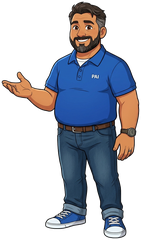
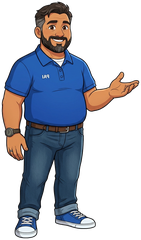
Inverte orientacao inicial de Papai e Vovo para caminharem sempre para frente

diff --git a/aventura_familia.html b/aventura_familia.html
@@ -94,8 +94,8 @@
                 <!-- Henrique (Homem-Aranha) -->
                 <button onclick="selectCharacter('henrique')" class="char-card bg-white/95 hover:bg-yellow-50 border-4 border-red-500 rounded-3xl p-3 sm:p-4 flex flex-col items-center shadow-2xl active:scale-95">
                     <div class="h-28 sm:h-36 w-full flex items-center justify-center relative">
-                        <img src="char_henrique.png" class="h-full object-contain drop-shadow-xl" alt="Henrique">
-                        <img src="avatar_henrique.png" class="absolute -top-1 -right-1 w-8 h-8 rounded-full border-2 border-white shadow-md object-cover bg-white" alt="Foto">
+                        <img src="char_henrique.png?v=2" class="h-full object-contain drop-shadow-xl" alt="Henrique">
+                        <img src="avatar_henrique.png?v=2" class="absolute -top-1 -right-1 w-8 h-8 rounded-full border-2 border-white shadow-md object-cover bg-white" alt="Foto">
                     </div>
                     <span class="text-base sm:text-xl font-black text-red-600 mt-2">Henrique</span>
                     <span class="text-xs font-bold text-gray-600">🕷 Homem-Aranha</span>
@@ -104,7 +104,7 @@
                 <!-- Papai Anderson -->
                 <button onclick="selectCharacter('anderson')" class="char-card bg-white/95 hover:bg-yellow-50 border-4 border-blue-600 rounded-3xl p-3 sm:p-4 flex flex-col items-center shadow-2xl active:scale-95">
                     <div class="h-28 sm:h-36 w-full flex items-center justify-center">
-                        <img src="char_anderson.png" class="h-full object-contain drop-shadow-xl" alt="Pai Anderson">
+                        <img src="char_anderson.png?v=2" class="h-full object-contain drop-shadow-xl" alt="Pai Anderson">
                     </div>
                     <span class="text-base sm:text-xl font-black text-blue-700 mt-2">Pai Anderson</span>
                     <span class="text-xs font-bold text-gray-600">🧔 Barba & Grisalho</span>
@@ -113,7 +113,7 @@
                 <!-- Mamãe -->
                 <button onclick="selectCharacter('mamae')" class="char-card bg-white/95 hover:bg-yellow-50 border-4 border-pink-500 rounded-3xl p-3 sm:p-4 flex flex-col items-center shadow-2xl active:scale-95">
                     <div class="h-28 sm:h-36 w-full flex items-center justify-center">
-                        <img src="char_mamae.png" class="h-full object-contain drop-shadow-xl" alt="Mamãe">
+                        <img src="char_mamae.png?v=2" class="h-full object-contain drop-shadow-xl" alt="Mamãe">
                     </div>
                     <span class="text-base sm:text-xl font-black text-pink-600 mt-2">Mamãe</span>
                     <span class="text-xs font-bold text-gray-600">👓 Blusa Rosa & Jeans</span>
@@ -122,7 +122,7 @@
                 <!-- Vovó -->
                 <button onclick="selectCharacter('vovo')" class="char-card bg-white/95 hover:bg-yellow-50 border-4 border-purple-500 rounded-3xl p-3 sm:p-4 flex flex-col items-center shadow-2xl active:scale-95">
                     <div class="h-28 sm:h-36 w-full flex items-center justify-center">
-                        <img src="char_vovo.png" class="h-full object-contain drop-shadow-xl" alt="Vovó">
+                        <img src="char_vovo.png?v=2" class="h-full object-contain drop-shadow-xl" alt="Vovó">
                     </div>
                     <span class="text-base sm:text-xl font-black text-purple-700 mt-2">Vovó</span>
                     <span class="text-xs font-bold text-gray-600">👵 Óculos & Xale</span>
@@ -198,10 +198,10 @@
             mamae: new Image(),
             vovo: new Image()
         };
-        charImages.henrique.src = 'char_henrique.png';
-        charImages.anderson.src = 'char_anderson.png';
-        charImages.mamae.src = 'char_mamae.png';
-        charImages.vovo.src = 'char_vovo.png';
+        charImages.henrique.src = 'char_henrique.png?v=2';
+        charImages.anderson.src = 'char_anderson.png?v=2';
+        charImages.mamae.src = 'char_mamae.png?v=2';
+        charImages.vovo.src = 'char_vovo.png?v=2';
 
         let audioCtx = null;
         let selectedHero = 'henrique';

diff --git a/sw.js b/sw.js
@@ -1,4 +1,4 @@
-const CACHE_NAME = 'jogos-kids-v2';
+const CACHE_NAME = 'jogos-kids-v3';
 const ASSETS = [
   './',
   './index.html',
@@ -8,6 +8,10 @@ const ASSETS = [
   './char_anderson.png',
   './char_mamae.png',
   './char_vovo.png',
+  './char_henrique.png?v=2',
+  './char_anderson.png?v=2',
+  './char_mamae.png?v=2',
+  './char_vovo.png?v=2',
   './avatar_henrique.png',
   './icon-192.png',
   './icon-512.png',
